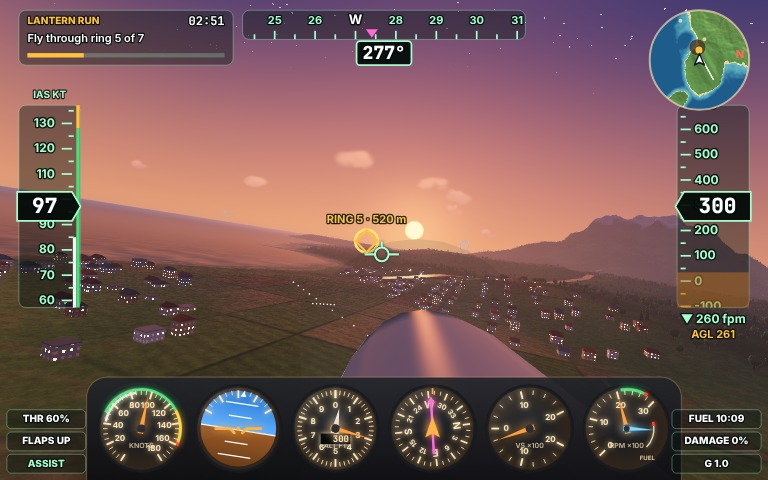
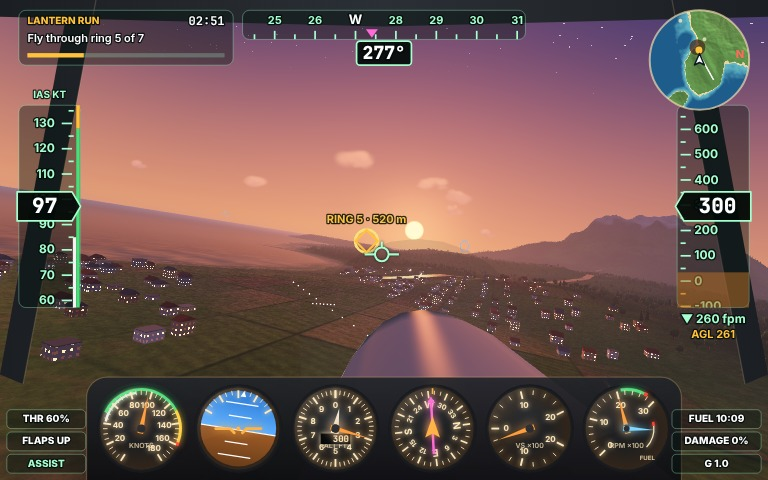
Fix landing completion, safer ground handling, terrain shadows, new cover and squall shot
- Mission director recorded no touchdown (airborne time was reset before the check),
  so landing missions could not finish; verified with scripted flights.
- Gear side grip under the tip-over limit, speed-limited nose-wheel steering, a ground
  righting moment and an assist that holds the wings level on the ground.
- Baked sun shadows and valley occlusion from the heightfield.
- Canopy frame in the cockpit view; screenshots: harbour coast cover, squall final.

Claude-Session: https://claude.ai/code/session_013aFgNxawAtzCzATrD7uXbz

diff --git a/game/src/shots/shot-scenes.js b/game/src/shots/shot-scenes.js
@@ -7,6 +7,7 @@ import { quatFromAttitude, quatRotate } from '../core/vector-math.js';
 import { AIRFIELDS, runwayEnds } from '../world/landmarks.js';
 import { SALTRUNNER } from '../flight/aircraft-spec.js';
 import { gradeLanding } from '../missions/landing-grader.js';
+import { buildRingCourse } from '../missions/ring-courses.js';
 
 const DEG = Math.PI / 180;
 
@@ -44,8 +45,8 @@ function settleChase(api) {
 }
 
 const SHOTS = {
-  /** Cover: chasing the Saltrunner up the Silverrun canyon toward the snowy Cairnhold, a gate ahead. */
-  cover(api) {
+  /** Chasing the Saltrunner up the Silverrun canyon toward the snowy Cairnhold, a gate ahead. */
+  canyon(api) {
     api.startMission(missionById('silverrun-gates'));
     const st = api.game.director.state;
     st.nextRing = 4;
@@ -54,6 +55,22 @@ const SHOTS = {
     const at = approachTo(st.rings, 4, 210, 6);
     pose(api.game.plane, at, headingBetween(at, st.rings[4].position) - 4, 3, 14, 54, 0.82, 0);
     api.game.time = 37.5;
+    api.rig.mode = 'chase';
+    api.rig.reset(api.game.plane);
+    settleChase(api);
+  },
+  /** Cover. First Light along the harbour coast: beach, shallows, forest and the Cairnhold peaks, ring 5 ahead. */
+  coast(api) {
+    api.startMission(missionById('first-light'));
+    const st = api.game.director.state;
+    st.step = 1;
+    st.rings = buildRingCourse('harbour', api.world);
+    st.nextRing = 4;
+    st.cleared = 4;
+    st.elapsed = 162;
+    const at = approachTo(st.rings, 4, 250, 6);
+    pose(api.game.plane, at, headingBetween(at, st.rings[4].position) - 4, 3, 12, 52, 0.72, 0);
+    api.game.time = 51.5;
     api.rig.mode = 'chase';
     api.rig.reset(api.game.plane);
     settleChase(api);
@@ -94,6 +111,27 @@ const SHOTS = {
     const right = [Math.cos(h), 0, Math.sin(h)];
     const eye = [0, 1, 2].map((i) => plane.position[i] - forward[i] * 15 - right[i] * 3 + (i === 1 ? 4.6 : 0));
     const target = [low.x + forward[0] * 230, field.elevation + 4, low.z + forward[2] * 230];
+    api.rig.override = { eye, target, up: [0, 1, 0], fov: 56 };
+  },
+  /** Squall Final: crabbing into the crosswind on short final to runway 25, flaps out, lights on. */
+  squall(api) {
+    api.startMission(missionById('squall-final'));
+    const st = api.game.director.state;
+    st.elapsed = 96;
+    const field = AIRFIELDS[0];
+    const end = runwayEnds(field)[1];
+    const h = end.heading * DEG;
+    const d = 280;
+    const at = [end.x - Math.sin(h) * d + Math.cos(h) * 4, field.elevation + (300 + d) * Math.tan(3 * DEG) + 1.5, end.z + Math.cos(h) * d + Math.sin(h) * 4];
+    const plane = api.game.plane;
+    pose(plane, at, end.heading + 9, 1.5, 4, 34, 0.3, 2);
+    plane.velocity[1] = -1.8;
+    api.game.time = 26.6;
+    const forward = [Math.sin(h), 0, -Math.cos(h)];
+    const right = [Math.cos(h), 0, Math.sin(h)];
+    const eye = [0, 1, 2].map((i) => plane.position[i] - forward[i] * 15 + right[i] * 3 + (i === 1 ? 4.6 : 0));
+    const target = [end.x + forward[0] * 230, field.elevation + 4, end.z + forward[2] * 230];
+    api.rig.mode = 'chase';
     api.rig.override = { eye, target, up: [0, 1, 0], fov: 56 };
   },
   /** The results card after a First Light landing on Halloway Field at golden hour. */
@@ -138,7 +176,7 @@ const SHOTS = {
 export const SHOT_NAMES = Object.keys(SHOTS);
 
 export function stageShot(name, api) {
-  (SHOTS[name] ?? SHOTS.cover)(api);
+  (SHOTS[name] ?? SHOTS.coast)(api);
   const plane = api.game.plane;
   const readout = flightReadout(plane, api.world.terrain);
   const draw = () => api.renderFrame(0, api.game.mode === 'flying' ? readout : null);

diff --git a/game/src/render/terrain-lighting.js b/game/src/render/terrain-lighting.js
@@ -1,0 +1,74 @@
+// Mountain shadows and valley occlusion, baked from the heightfield into one small two-channel
+// texture whenever the sun moves (each mission has its own time of day). Ground, trees, buildings,
+// runways and water read it, so a low sun lets the Cairnhold range throw long shadows.
+
+const RESOLUTION = 257;
+
+/** For every texel: R = how shadowed from the sun (soft penumbra), G = sky occlusion in hollows. */
+export function bakeTerrainLight(terrain, sunDirection) {
+  const data = new Uint8Array(RESOLUTION * RESOLUTION * 2);
+  const step = terrain.size / (RESOLUTION - 1);
+  let peak = 0;
+  for (const h of terrain.heights) peak = Math.max(peak, h);
+  const horizontal = Math.hypot(sunDirection[0], sunDirection[2]) || 1e-6;
+  const dx = sunDirection[0] / horizontal;
+  const dz = sunDirection[2] / horizontal;
+  const rise = sunDirection[1] / horizontal;
+  const ring = [];
+  for (const radius of [110, 260]) for (let k = 0; k < 8; k++) ring.push([Math.cos((k / 8) * Math.PI * 2) * radius, Math.sin((k / 8) * Math.PI * 2) * radius]);
+  for (let j = 0; j < RESOLUTION; j++) {
+    for (let i = 0; i < RESOLUTION; i++) {
+      const x = -terrain.half + i * step;
+      const z = -terrain.half + j * step;
+      const ground = Math.max(terrain.heightAt(x, z), 0);
+      let shadow = 0;
+      let t = terrain.cellSize;
+      while (t < terrain.size) {
+        const px = x + dx * t;
+        const pz = z + dz * t;
+        if (Math.abs(px) > terrain.half || Math.abs(pz) > terrain.half) break;
+        const ray = ground + 2 + rise * t;
+        if (ray > peak) break;
+        const blocked = (terrain.heightAt(px, pz) - ray) / (8 + t * 0.035);
+        if (blocked > shadow) {
+          shadow = blocked;
+          if (shadow >= 1) break;
+        }
+        t += terrain.cellSize * (1 + t / 1800);
+      }
+      let around = 0;
+      for (const [ox, oz] of ring) around += Math.max(terrain.heightAt(x + ox, z + oz), 0);
+      const hollow = Math.min(1, Math.max(0, (around / ring.length - ground) / 80));
+      const k = (j * RESOLUTION + i) * 2;
+      data[k] = Math.round(Math.min(1, Math.max(0, shadow)) * 255);
+      data[k + 1] = Math.round(hollow * 255);
+    }
+  }
+  return data;
+}
+
+/** Keeps the baked texture in step with the atmosphere; returns what the shaders sample. */
+export function createTerrainLighting(gl, terrain) {
+  const texture = gl.createTexture();
+  gl.bindTexture(gl.TEXTURE_2D, texture);
+  gl.pixelStorei(gl.UNPACK_ALIGNMENT, 1);
+  gl.texImage2D(gl.TEXTURE_2D, 0, gl.RG8, RESOLUTION, RESOLUTION, 0, gl.RG, gl.UNSIGNED_BYTE, new Uint8Array(RESOLUTION * RESOLUTION * 2));
+  gl.texParameteri(gl.TEXTURE_2D, gl.TEXTURE_WRAP_S, gl.CLAMP_TO_EDGE);
+  gl.texParameteri(gl.TEXTURE_2D, gl.TEXTURE_WRAP_T, gl.CLAMP_TO_EDGE);
+  gl.texParameteri(gl.TEXTURE_2D, gl.TEXTURE_MIN_FILTER, gl.LINEAR);
+  gl.texParameteri(gl.TEXTURE_2D, gl.TEXTURE_MAG_FILTER, gl.LINEAR);
+  let bakedFor = null;
+  const light = { texture, half: terrain.half, size: terrain.size };
+  return {
+    /** Re-bakes only when the sun direction has changed since the last bake. */
+    update(sunDirection) {
+      const key = sunDirection.map((v) => v.toFixed(4)).join(',');
+      if (key === bakedFor) return light;
+      bakedFor = key;
+      gl.bindTexture(gl.TEXTURE_2D, texture);
+      gl.pixelStorei(gl.UNPACK_ALIGNMENT, 1);
+      gl.texSubImage2D(gl.TEXTURE_2D, 0, 0, 0, RESOLUTION, RESOLUTION, gl.RG, gl.UNSIGNED_BYTE, bakeTerrainLight(terrain, sunDirection));
+      return light;
+    },
+  };
+}

diff --git a/game/src/flight/flight-dynamics.js b/game/src/flight/flight-dynamics.js
@@ -128,7 +128,14 @@ export function stepAircraft(plane, world, wind, dt = PHYSICS_STEP) {
   const gearTorqueBody = quatRotate(quatConjugate(plane.orientation), gear.torque);
   const inertia = [spec.pitch.inertia, spec.yaw.inertia, spec.roll.inertia];
   for (let i = 0; i < 3; i++) plane.angularVelocity[i] += (aero.angularAcceleration[i] + gearTorqueBody[i] / inertia[i]) * dt;
-  if (gear.contacts.length > 0) for (let i = 0; i < 3; i++) plane.angularVelocity[i] *= 1 - Math.min(1, dt * 1.5);
+  if (gear.contacts.length > 0) {
+    for (let i = 0; i < 3; i++) plane.angularVelocity[i] *= 1 - Math.min(1, dt * 1.5);
+    // The gear's track and a pilot's hands keep a rolling aircraft upright: a righting moment
+    // grows with bank (and with a nose pitched onto its wheel), so crosswinds skid, not capsize.
+    const att = attitudeOf(plane.orientation);
+    plane.angularVelocity[2] += (att.bank * 9 - plane.angularVelocity[2] * 4) * dt;
+    if (att.pitch < -0.08) plane.angularVelocity[0] += (-att.pitch - 0.08) * 8 * dt;
+  }
   plane.orientation = quatIntegrateBody(plane.orientation, plane.angularVelocity, dt);
 
   const up = quatRotate(plane.orientation, [0, 1, 0]);
@@ -159,6 +166,10 @@ export function applyPilotInput(plane, input, assist, dt) {
     if (plane.holdBank === null || plane.holdBank === undefined) plane.holdBank = Math.abs(bank) < 0.09 ? 0 : clamp(bank, -1.05, 1.05);
     roll += clamp((plane.holdBank - bank) * 1.4 + plane.angularVelocity[2] * 0.35, -0.6, 0.6);
   } else plane.holdBank = null;
+  if (assist && plane.onGround && Math.abs(input.roll) < 0.02) {
+    // On the ground the assist holds the wings level, the aileron a pilot would hold into a crosswind.
+    roll += clamp(-attitudeOf(plane.orientation).bank * 4 + plane.angularVelocity[2] * 0.8, -1, 1);
+  }
   c.roll = clamp(roll, -1, 1);
   c.yaw = clamp(ease(plane.yawPedal ?? 0, input.yaw, 3) + (assist && airborne ? clamp(plane.beta * 4, -0.5, 0.5) : 0), -1, 1);
   plane.yawPedal = ease(plane.yawPedal ?? 0, input.yaw, 3);

diff --git a/game/src/flight/landing-gear.js b/game/src/flight/landing-gear.js
@@ -2,7 +2,9 @@
 // the aircraft tracking straight, toe brakes on the mains and nose-wheel steering on the rudder.
 import { add, sub, scale, dot, cross, normalize, quatRotate } from '../core/vector-math.js';
 
-const SIDE_GRIP = 0.85;
+// Side grip stays well under the tip-over limit (half-track / CG height = 1.35 / 1.55 ~ 0.87 g),
+// so a touchdown with some drift skids and straightens instead of rolling onto a wingtip.
+const SIDE_GRIP = 0.5;
 const ROLLING = 0.022;
 const GRASS_ROLLING = 0.07;
 const BRAKING = 0.6;
@@ -30,7 +32,8 @@ export function wheelForces(plane, spec, surface, controls) {
     let rolling = normalize(sub(forward, scale(n, dot(forward, n))));
     if (wheel.steer) {
       const speed = Math.hypot(...plane.velocity);
-      const steer = controls.yaw * 0.4 * Math.max(0.15, 1 - speed / 30);
+      // Limit the angle so a steered turn stays under ~0.35 g sideways at any taxi speed.
+      const steer = controls.yaw * Math.min(0.45, 8 / (speed * speed + 1));
       const side = cross(rolling, n);
       rolling = normalize(add(scale(rolling, Math.cos(steer)), scale(side, Math.sin(steer))));
     }
@@ -39,7 +42,7 @@ export function wheelForces(plane, spec, surface, controls) {
     const vSide = dot(pointVelocity, lateral);
     const resist = (ground.runway ? ROLLING : GRASS_ROLLING) + (wheel.brake ? controls.brakes * BRAKING : 0);
     const rollForce = -Math.sign(vRoll) * Math.min(Math.abs(vRoll) * 900, resist * load);
-    const sideForce = -Math.max(-SIDE_GRIP * load, Math.min(SIDE_GRIP * load, vSide * 3200));
+    const sideForce = -Math.max(-SIDE_GRIP * load, Math.min(SIDE_GRIP * load, vSide * 1700));
     const f = add(add(scale(n, load), scale(rolling, rollForce)), scale(lateral, sideForce));
     force = add(force, f);
     torque = add(torque, cross(arm, f));

diff --git a/game/src/render/shaders.js b/game/src/render/shaders.js
@@ -18,8 +18,16 @@ uniform float uExposure;
 uniform float uTime;
 uniform vec4 uLandingLight;
 uniform vec3 uLandingDir;
+uniform sampler2D uTerrainLight;
+uniform vec2 uTerrainMap;
+uniform float uUseTerrainLight;
 
 vec3 toLinear(vec3 c) { return c * c; }
+
+vec2 terrainLight(vec3 p) {
+  if (uUseTerrainLight < 0.5) return vec2(0.0);
+  return texture(uTerrainLight, (p.xz + uTerrainMap.x) / uTerrainMap.y).rg;
+}
 vec3 toDisplay(vec3 c) { c = vec3(1.0) - exp(-c * uExposure); return sqrt(c); }
 
 vec3 skyRadiance(vec3 dir) {
@@ -48,8 +56,9 @@ vec3 applyFog(vec3 color, vec3 worldPos) {
 }
 
 vec3 litSurface(vec3 albedo, vec3 n, vec3 worldPos, float shine) {
-  float diffuse = max(dot(n, uSunDir), 0.0);
-  vec3 ambient = mix(uGroundAmbient, uSkyAmbient, n.y * 0.5 + 0.5);
+  vec2 tl = terrainLight(worldPos);
+  float diffuse = max(dot(n, uSunDir), 0.0) * (1.0 - tl.r * 0.86);
+  vec3 ambient = mix(uGroundAmbient, uSkyAmbient, n.y * 0.5 + 0.5) * (1.0 - tl.g * 0.45) * (1.0 + tl.r * 0.12);
   vec3 color = albedo * (ambient + uSunColor * diffuse);
   if (shine > 0.0) {
     vec3 v = normalize(uCameraPos - worldPos);
@@ -201,7 +210,8 @@ void main() {
   vec3 shallow = uFlow > 0.5 ? toLinear(vec3(0.3, 0.62, 0.6)) : toLinear(vec3(0.22, 0.70, 0.67));
   vec3 deep = uFlow > 0.5 ? toLinear(vec3(0.12, 0.38, 0.45)) : toLinear(vec3(0.03, 0.19, 0.33));
   vec3 body = mix(shallow, deep, smoothstep(0.5, uFlow > 0.5 ? 4.0 : 30.0, depth));
-  vec3 lit = body * (uSkyAmbient * 0.95 + uSunColor * max(uSunDir.y, 0.05) * 0.6);
+  vec2 tl = terrainLight(vWorld);
+  vec3 lit = body * (uSkyAmbient * 0.95 + uSunColor * max(uSunDir.y, 0.05) * 0.6 * (1.0 - tl.r * 0.8));
   float fresnel = 0.02 + 0.98 * pow(1.0 - max(dot(n, v), 0.0), 5.0);
   vec3 r = reflect(-v, n);
   r.y = abs(r.y);

diff --git a/game/src/hud/flight-hud.js b/game/src/hud/flight-hud.js
@@ -238,6 +238,35 @@ export function createFlightHud(canvas, minimap) {
     ctx.restore();
   }
 
+  /** From the cockpit: the windscreen frame and canopy rails around the view. */
+  function canopyFrame() {
+    ctx.save();
+    const frame = (points) => {
+      const g = ctx.createLinearGradient(0, 0, W, 0);
+      g.addColorStop(0, '#1b1e22');
+      g.addColorStop(0.5, '#2b3036');
+      g.addColorStop(1, '#1b1e22');
+      ctx.fillStyle = g;
+      ctx.beginPath();
+      ctx.moveTo(points[0][0], points[0][1]);
+      for (const p of points.slice(1)) ctx.lineTo(p[0], p[1]);
+      ctx.closePath();
+      ctx.fill();
+    };
+    frame([[0, H * 0.78], [W * 0.09, 0], [W * 0.125, 0], [W * 0.03, H * 0.8]]);
+    frame([[W, H * 0.78], [W * 0.91, 0], [W * 0.875, 0], [W * 0.97, H * 0.8]]);
+    frame([[0, 0], [W, 0], [W, H * 0.035], [W * 0.5, H * 0.055], [0, H * 0.035]]);
+    ctx.strokeStyle = 'rgba(255,220,170,0.18)';
+    ctx.lineWidth = 1.5 * u;
+    ctx.beginPath();
+    ctx.moveTo(W * 0.03, H * 0.8);
+    ctx.lineTo(W * 0.125, 0);
+    ctx.moveTo(W * 0.97, H * 0.8);
+    ctx.lineTo(W * 0.875, 0);
+    ctx.stroke();
+    ctx.restore();
+  }
+
   function missionPanel(m) {
     if (!m) return;
     const x = 22 * u;
@@ -299,6 +328,7 @@ export function createFlightHud(canvas, minimap) {
       ctx.clearRect(0, 0, W, H);
       const { plane, readout } = view;
       const kt = readout.airspeed * KNOTS;
+      if (view.cockpit) canopyFrame();
       flightPathMarker(view.camera, plane);
       targetMarker(view.camera, view.target);
       speedTape(kt);

diff --git a/game/src/missions/mission-director.js b/game/src/missions/mission-director.js
@@ -90,8 +90,8 @@ export function createMissionDirector(world, mission) {
     if (st.nextRing >= st.rings.length) advance();
   }
 
-  function checkLanding(plane, readout, step, dt) {
-    if (plane.onGround && !st.touchdown && st.airborneTime > 2) {
+  function checkLanding(plane, readout, step, dt, airborneBefore) {
+    if (plane.onGround && !st.touchdown && airborneBefore > 2) {
       const facts = measureTouchdown(plane, readout);
       if (facts && (facts.field.id === step.airfield || step.type === 'explore')) {
         st.touchdown = facts;
@@ -116,6 +116,7 @@ export function createMissionDirector(world, mission) {
     update(plane, readout, events, dt) {
       if (st.status !== 'flying') return;
       st.elapsed += dt;
+      const airborneBefore = st.airborneTime;
       st.airborneTime = plane.onGround ? 0 : st.airborneTime + dt;
       plane.airborneFor = st.airborneTime;
       for (const m of st.messages) m.life -= dt;
@@ -137,7 +138,7 @@ export function createMissionDirector(world, mission) {
           say(`${f.name.toUpperCase()} IN SIGHT — LAND`, '#ffc23a', true, 4);
           advance();
         }
-      } else if (step.type === 'land' || step.type === 'explore') checkLanding(plane, readout, step, dt);
+      } else if (step.type === 'land' || step.type === 'explore') checkLanding(plane, readout, step, dt, airborneBefore);
       const edge = Math.max(Math.abs(plane.position[0]), Math.abs(plane.position[2])) - world.terrain.half;
       if (edge > 0 && !st.warned) {
         st.warned = true;

diff --git a/game/src/render/scene-renderer.js b/game/src/render/scene-renderer.js
@@ -12,6 +12,7 @@ import { createAircraftRenderer } from './aircraft-renderer.js';
 import { createAircraftShadow } from './aircraft-shadow.js';
 import { createCloudRenderer } from './cloud-renderer.js';
 import { createSpriteBatch } from './sprite-batch.js';
+import { createTerrainLighting } from './terrain-lighting.js';
 import { LIGHTHOUSE } from '../world/landmarks.js';
 
 export function createSceneRenderer(canvas, world) {
@@ -27,6 +28,7 @@ export function createSceneRenderer(canvas, world) {
   const shadow = createAircraftShadow(gl, world.terrain);
   const clouds = createCloudRenderer(gl, world.seed, world.terrain.size);
   const sprites = createSpriteBatch(gl);
+  const lighting = createTerrainLighting(gl, world.terrain);
   const lighthouseLamp = [LIGHTHOUSE.x, world.terrain.heightAt(LIGHTHOUSE.x, LIGHTHOUSE.z) + 35.5, LIGHTHOUSE.z];
 
   return {
@@ -35,6 +37,7 @@ export function createSceneRenderer(canvas, world) {
     /** scene: { plane, rings, nextRing, particles, showAircraft, pilotEye } */
     render(frame, scene) {
       const { atmosphere } = frame;
+      frame.terrainLight = lighting.update(atmosphere.sunDirection);
       clouds.setCover(atmosphere.clouds);
       gl.viewport(0, 0, canvas.width, canvas.height);
       gl.clearColor(0, 0, 0, 1);

diff --git a/game/src/render/mesh-renderer.js b/game/src/render/mesh-renderer.js
@@ -38,8 +38,9 @@ export function beginMeshPass(gl, program, frame) {
   setAtmosphereUniforms(gl, program, frame);
 }
 
-export function drawMesh(gl, program, mesh, { model = IDENTITY, tint = WHITE, emissive = NONE, alpha = 1 } = {}) {
+export function drawMesh(gl, program, mesh, { model = IDENTITY, tint = WHITE, emissive = NONE, alpha = 1, grounded = false } = {}) {
   gl.uniform1f(program.u.uInstanced, 0);
+  if (program.u.uUseTerrainLight) gl.uniform1f(program.u.uUseTerrainLight, grounded ? 1 : 0);
   gl.uniformMatrix4fv(program.u.uModel, false, model);
   gl.uniform3fv(program.u.uTint, tint);
   gl.uniform3fv(program.u.uEmissive, emissive);
@@ -102,6 +103,7 @@ export function createInstanceGroups(gl, mesh, instances, cell, reach) {
 
 export function drawInstanceGroups(gl, program, set, frame, tint = WHITE) {
   gl.uniform1f(program.u.uInstanced, 1);
+  if (program.u.uUseTerrainLight) gl.uniform1f(program.u.uUseTerrainLight, 1);
   gl.uniform3fv(program.u.uTint, tint);
   gl.uniform3fv(program.u.uEmissive, NONE);
   gl.uniform1f(program.u.uAlpha, 1);

diff --git a/game/src/render/gl-utils.js b/game/src/render/gl-utils.js
@@ -120,4 +120,12 @@ export function setAtmosphereUniforms(gl, p, frame) {
   if (p.u.uTime) gl.uniform1f(p.u.uTime, frame.time);
   if (p.u.uLandingLight) gl.uniform4fv(p.u.uLandingLight, frame.landingLight);
   if (p.u.uLandingDir) gl.uniform3fv(p.u.uLandingDir, frame.landingDirection);
+  if (p.u.uTerrainLight && frame.terrainLight) {
+    gl.activeTexture(gl.TEXTURE3);
+    gl.bindTexture(gl.TEXTURE_2D, frame.terrainLight.texture);
+    gl.uniform1i(p.u.uTerrainLight, 3);
+    gl.uniform2f(p.u.uTerrainMap, frame.terrainLight.half, frame.terrainLight.size);
+    gl.activeTexture(gl.TEXTURE0);
+  }
+  if (p.u.uUseTerrainLight) gl.uniform1f(p.u.uUseTerrainLight, frame.terrainLight ? 1 : 0);
 }

diff --git a/game/src/world/sky-presets.js b/game/src/world/sky-presets.js
@@ -24,7 +24,7 @@ const PRESETS = {
   },
   golden: {
     label: 'Golden hour',
-    sun: [150, 17], sunColor: [1.0, 0.76, 0.48], sunPower: 2.8,
+    sun: [182, 19], sunColor: [1.0, 0.76, 0.48], sunPower: 2.8,
     zenith: [0.25, 0.44, 0.78], horizon: [0.98, 0.82, 0.64], fog: [0.88, 0.78, 0.68],
     groundAmbient: [0.34, 0.3, 0.25], fogDensity: 0.00011, fogFalloff: 0.0012, exposure: 1.55, night: 0, clouds: 0.75,
   },

diff --git a/game/src/render/scenery-renderer.js b/game/src/render/scenery-renderer.js
@@ -112,7 +112,7 @@ export function createSceneryRenderer(gl, program, world) {
       for (const set of wallSets) drawInstanceGroups(gl, program, set, frame);
       for (const set of roofSets) drawInstanceGroups(gl, program, set, frame);
       drawInstanceGroups(gl, program, flatRoofSet, frame);
-      drawMesh(gl, program, landmarks);
+      drawMesh(gl, program, landmarks, { grounded: true });
     },
   };
 }
